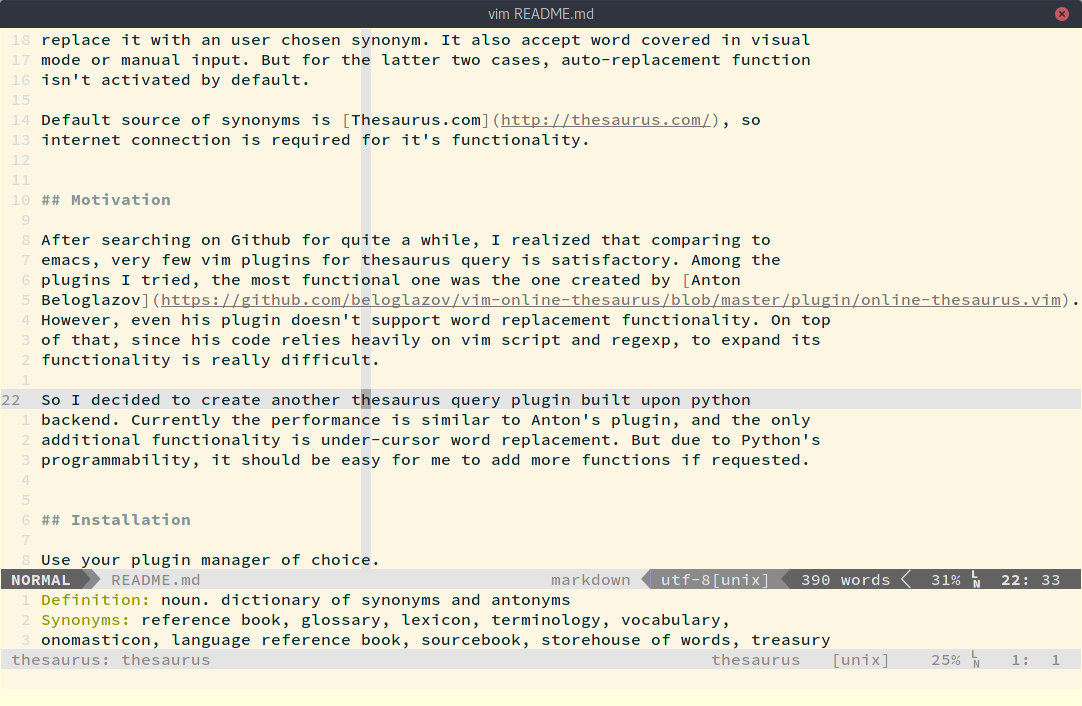
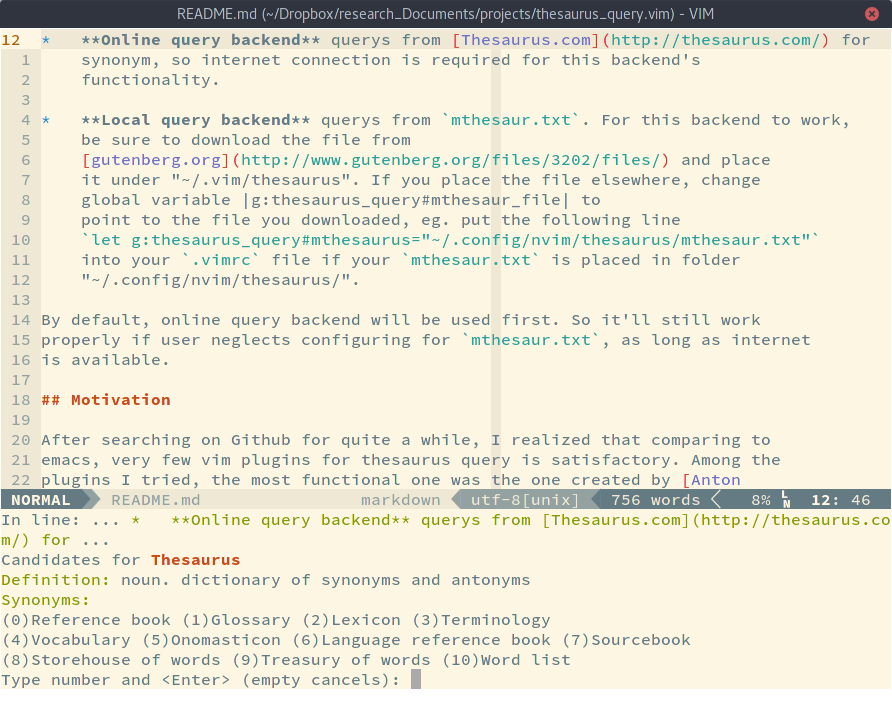
Update documentations

diff --git a/README.md b/README.md
@@ -7,17 +7,32 @@ isn't activated by default.
 
 ![](https://github.com/ron89/thesaurus_query.vim/raw/master/synonym_candidate.png)
 
-Default source of synonyms is [Thesaurus.com](http://thesaurus.com/), so
-internet connection is required for it's functionality. Also, since the plugin
-is written in python, `+python` support version of Vim is required.
+Two backends are used for this plugin, they function independently.
 
+*   **Online query backend** querys from [Thesaurus.com](http://thesaurus.com/) for
+    synonym, so internet connection is required for this backend's
+    functionality.
+
+*   **Local query backend** querys from `mthesaur.txt`. For this backend to work,
+    be sure to download the file from
+    [gutenberg.org](http://www.gutenberg.org/files/3202/files/) and place
+    it under "~/.vim/thesaurus". If you place the file elsewhere, change
+    global variable |g:thesaurus_query#mthesaur_file| to
+    point to the file you downloaded, eg. put the following line
+    `let g:thesaurus_query#mthesaurus="~/.config/nvim/thesaurus/mthesaur.txt"`
+    into your `.vimrc` file if your `mthesaur.txt` is placed in folder
+    "~/.config/nvim/thesaurus/".
+
+By default, online query backend will be used first. So it'll still work
+properly if user neglects configuring for `mthesaur.txt`, as long as internet
+is available.
 
 ## Motivation
 
 After searching on Github for quite a while, I realized that comparing to
 emacs, very few vim plugins for thesaurus query is satisfactory. Among the
 plugins I tried, the most functional one was the one created by [Anton
-Beloglazov](https://github.com/beloglazov/vim-online-thesaurus/blob/master/plugin/online-thesaurus.vim).
+Beloglazov](https://github.com/beloglazov/vim-online-thesaurus).
 However, even his plugin doesn't support word replacement functionality. On top
 of that, since his code relies heavily on vim script and regexp, to expand its
 functionality is really difficult.
@@ -47,7 +62,7 @@ Use your plugin manager of choice.
   - Run `:PlugInstall`
 
 
-## Customization
+## Usage
 
 By default, ThesaurusQueryReplaceCurrentWord is mapped to `<LocalLeader>cs`.
 
@@ -71,9 +86,60 @@ this routine don't offer replacement by default. Because my current replacement
 script is a simple one liner, it couldn't deal with many flexible situations as
 yet.
 
+## Configuration
+
+### for Local Query Backend
+
+Online query backend will work without any configuration. However, if user want
+to use `mthesaur.txt` for local thesaurus query independent from internet use,
+you will need to download `mthesaur.txt`(around 24MB) file from
+[gutenberg.org](http://www.gutenberg.org/files/3202/files/), and place it under
+folder "~/.vim/thesaurus". If user place the file elsewhere, be sure to let
+this plugin know the location of your `mthesaur.txt` file by adding the line
+
+```
+    let g:thesaurus_query#mthesaurus="/directory/to/your/mthesaur.txt
+```
+
+into your `.vimrc`.
+
+### Truncate query result in candidate window
+
+Synonym replacing interface(shown in first screenshot) is the key feature of
+this plugin. I will make my best effort to make sure it work sensibly. If user
+has any complain about the current layout or otherwise, please draft an issue
+to let me know. Currently, I have drafted two variables to help reducing the
+candidate list when the number of synonym is too overwhelming.
+
+![](https://github.com/ron89/thesaurus_query.vim/raw/master/synonym_candidate_truncate.png)
+
+#### Synonym group truncate
+Synonyms are grouped by definitions. If there are too many groups to your
+liking, you may reduce the number of groups shown to `3` by setting
+
+```
+    g:thesaurus_query#truncation_on_definition_num = 3.
+```
+
+#### Synonym list truncate
+Sometimes synonyms in a single group is also too long to choose from, in this
+case, to reduce the number of synonym shown in each group to no more than
+`200`, you can set
+
+```
+    g:thesaurus_query#truncation_on_syno_list_size = 200
+```
+
+Know that if query result is truncated by your rule, and you want to browse
+through the result being truncated, you can still access the complete synonym
+list by typing `A<Enter>` in your input prompt.
+
+**Notice** Due to current lack of user feedback, and that I do not want to
+arbitrarily make up truncation threshold that may damage user experience, both
+truncation methods are inactive unless variables stated above are set
+explicitly by user.
 
 ## TODO List
 
 1. Add option to truncate the synonym list when its length is over a certain
    threashhold(need more feedback to decide parameters).
-2. Add optional support for mthesaur.txt.
